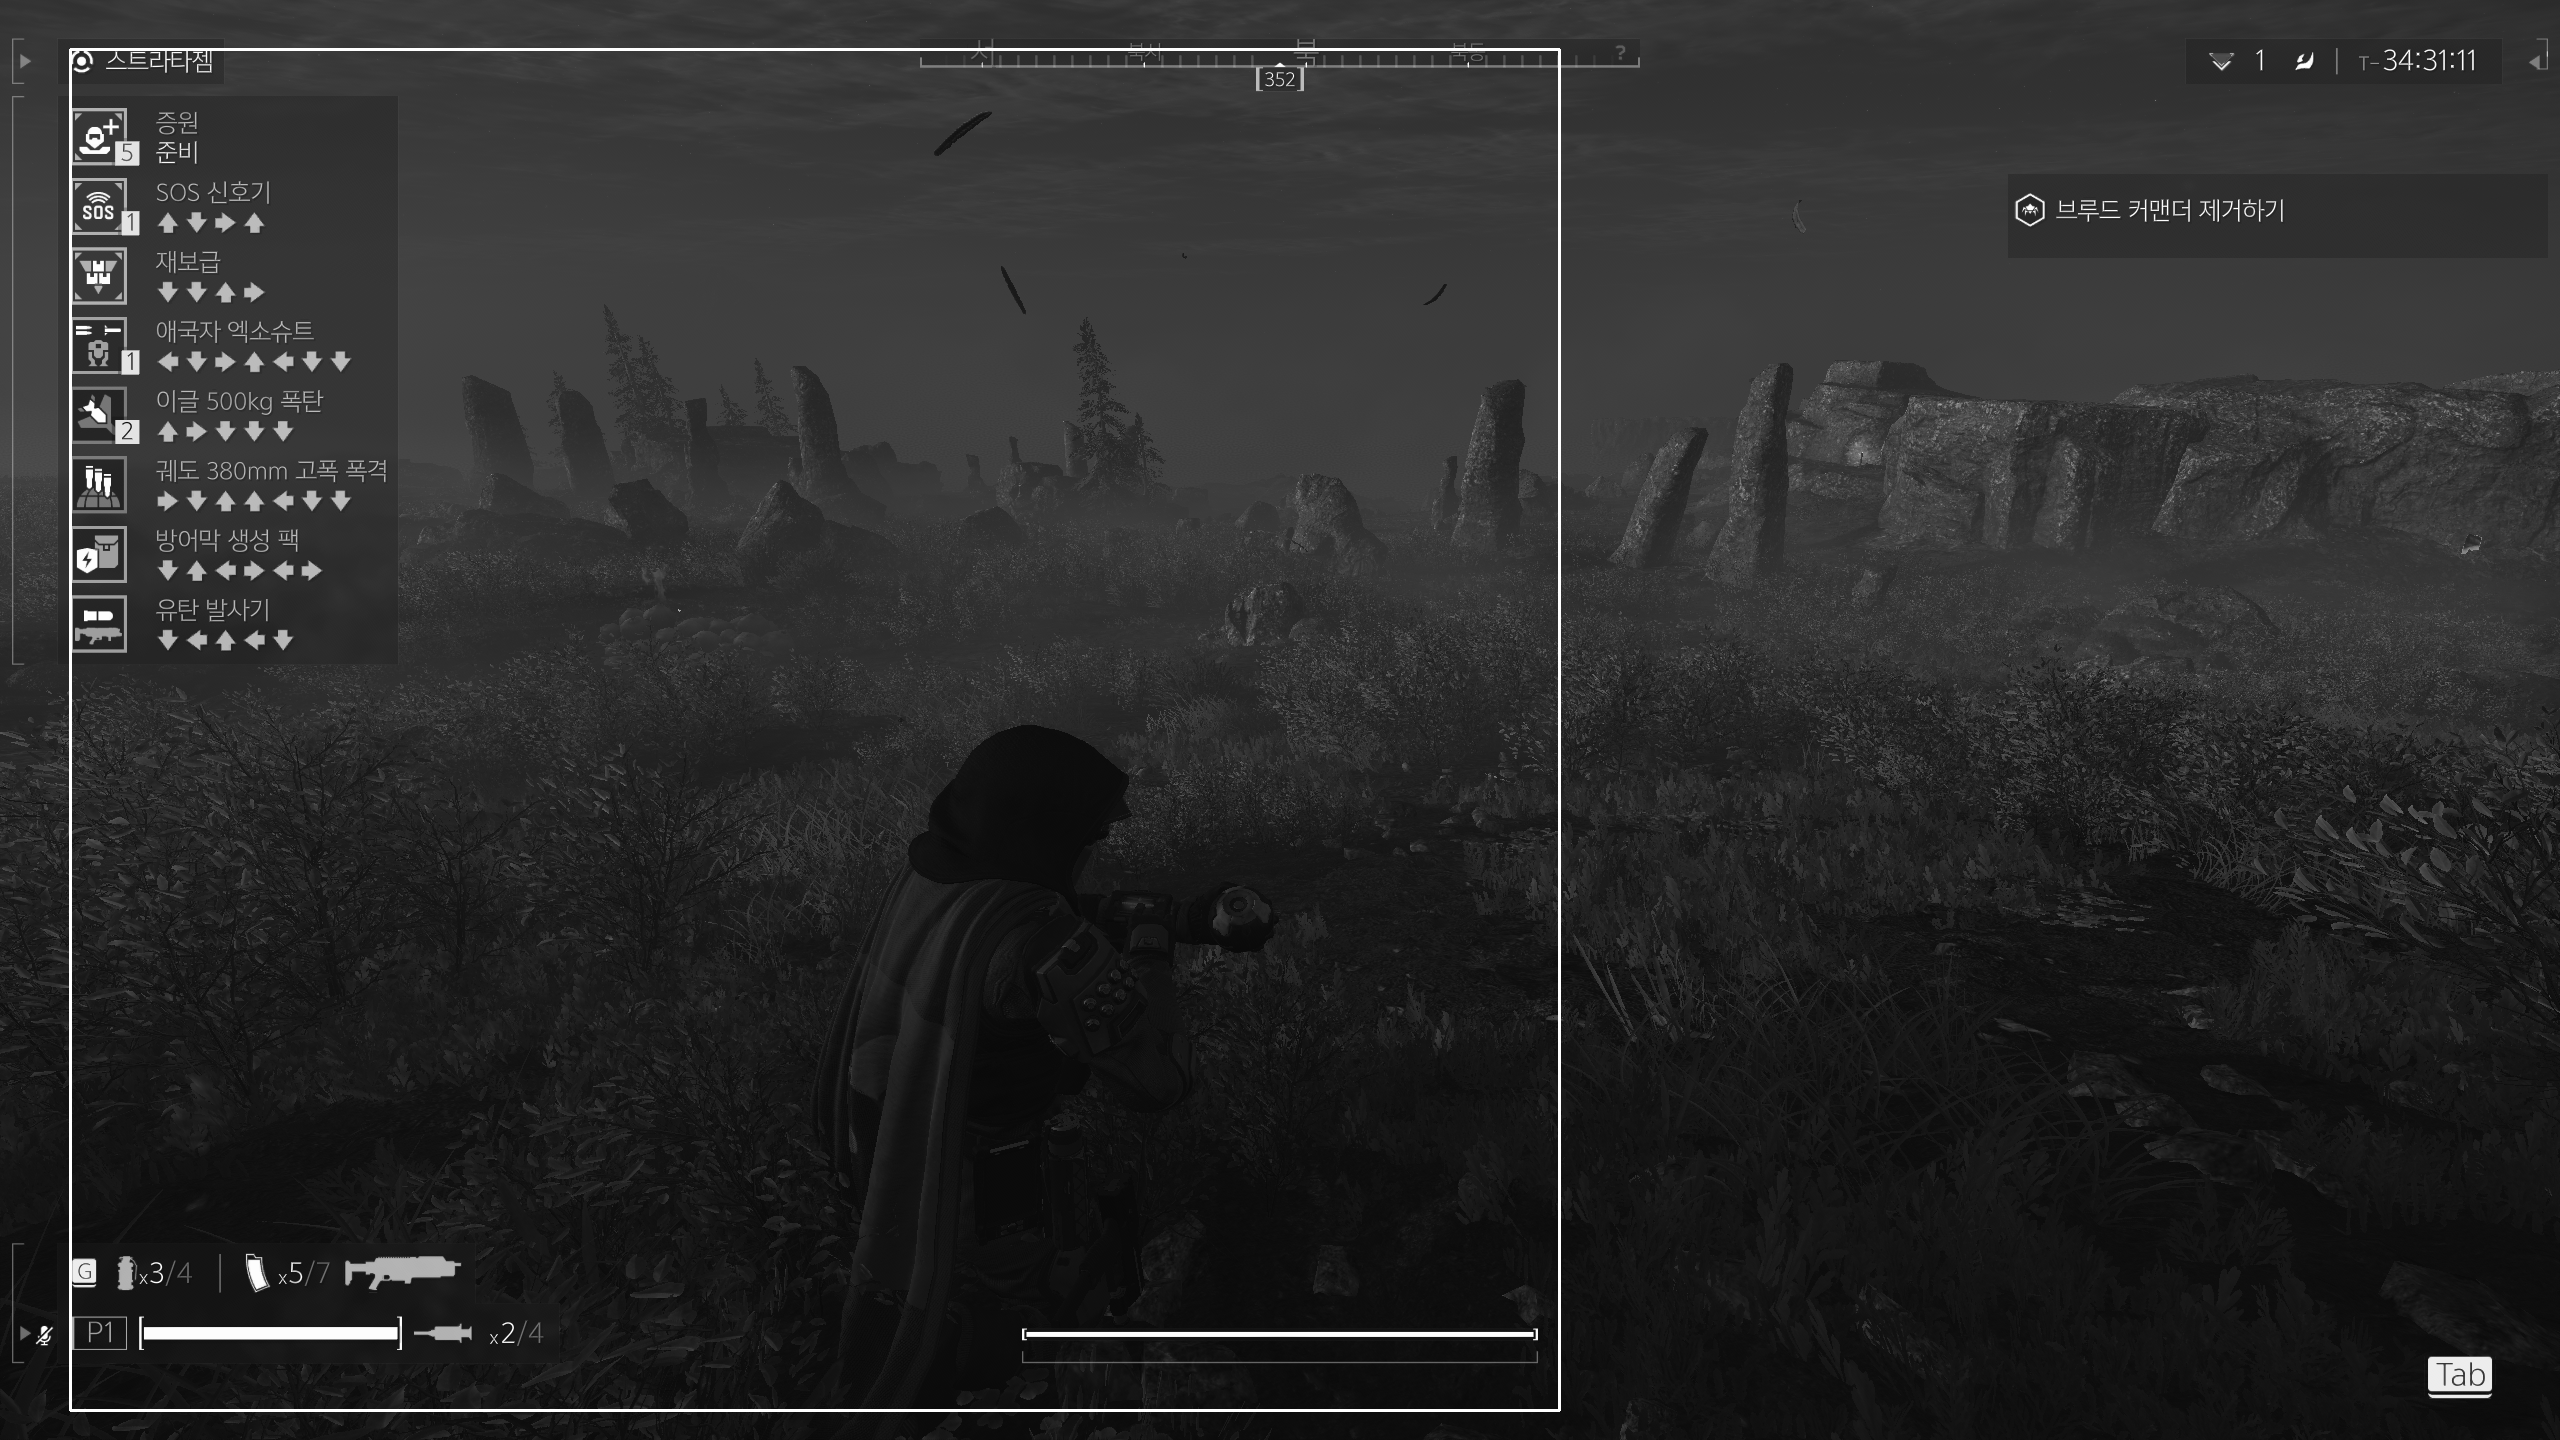
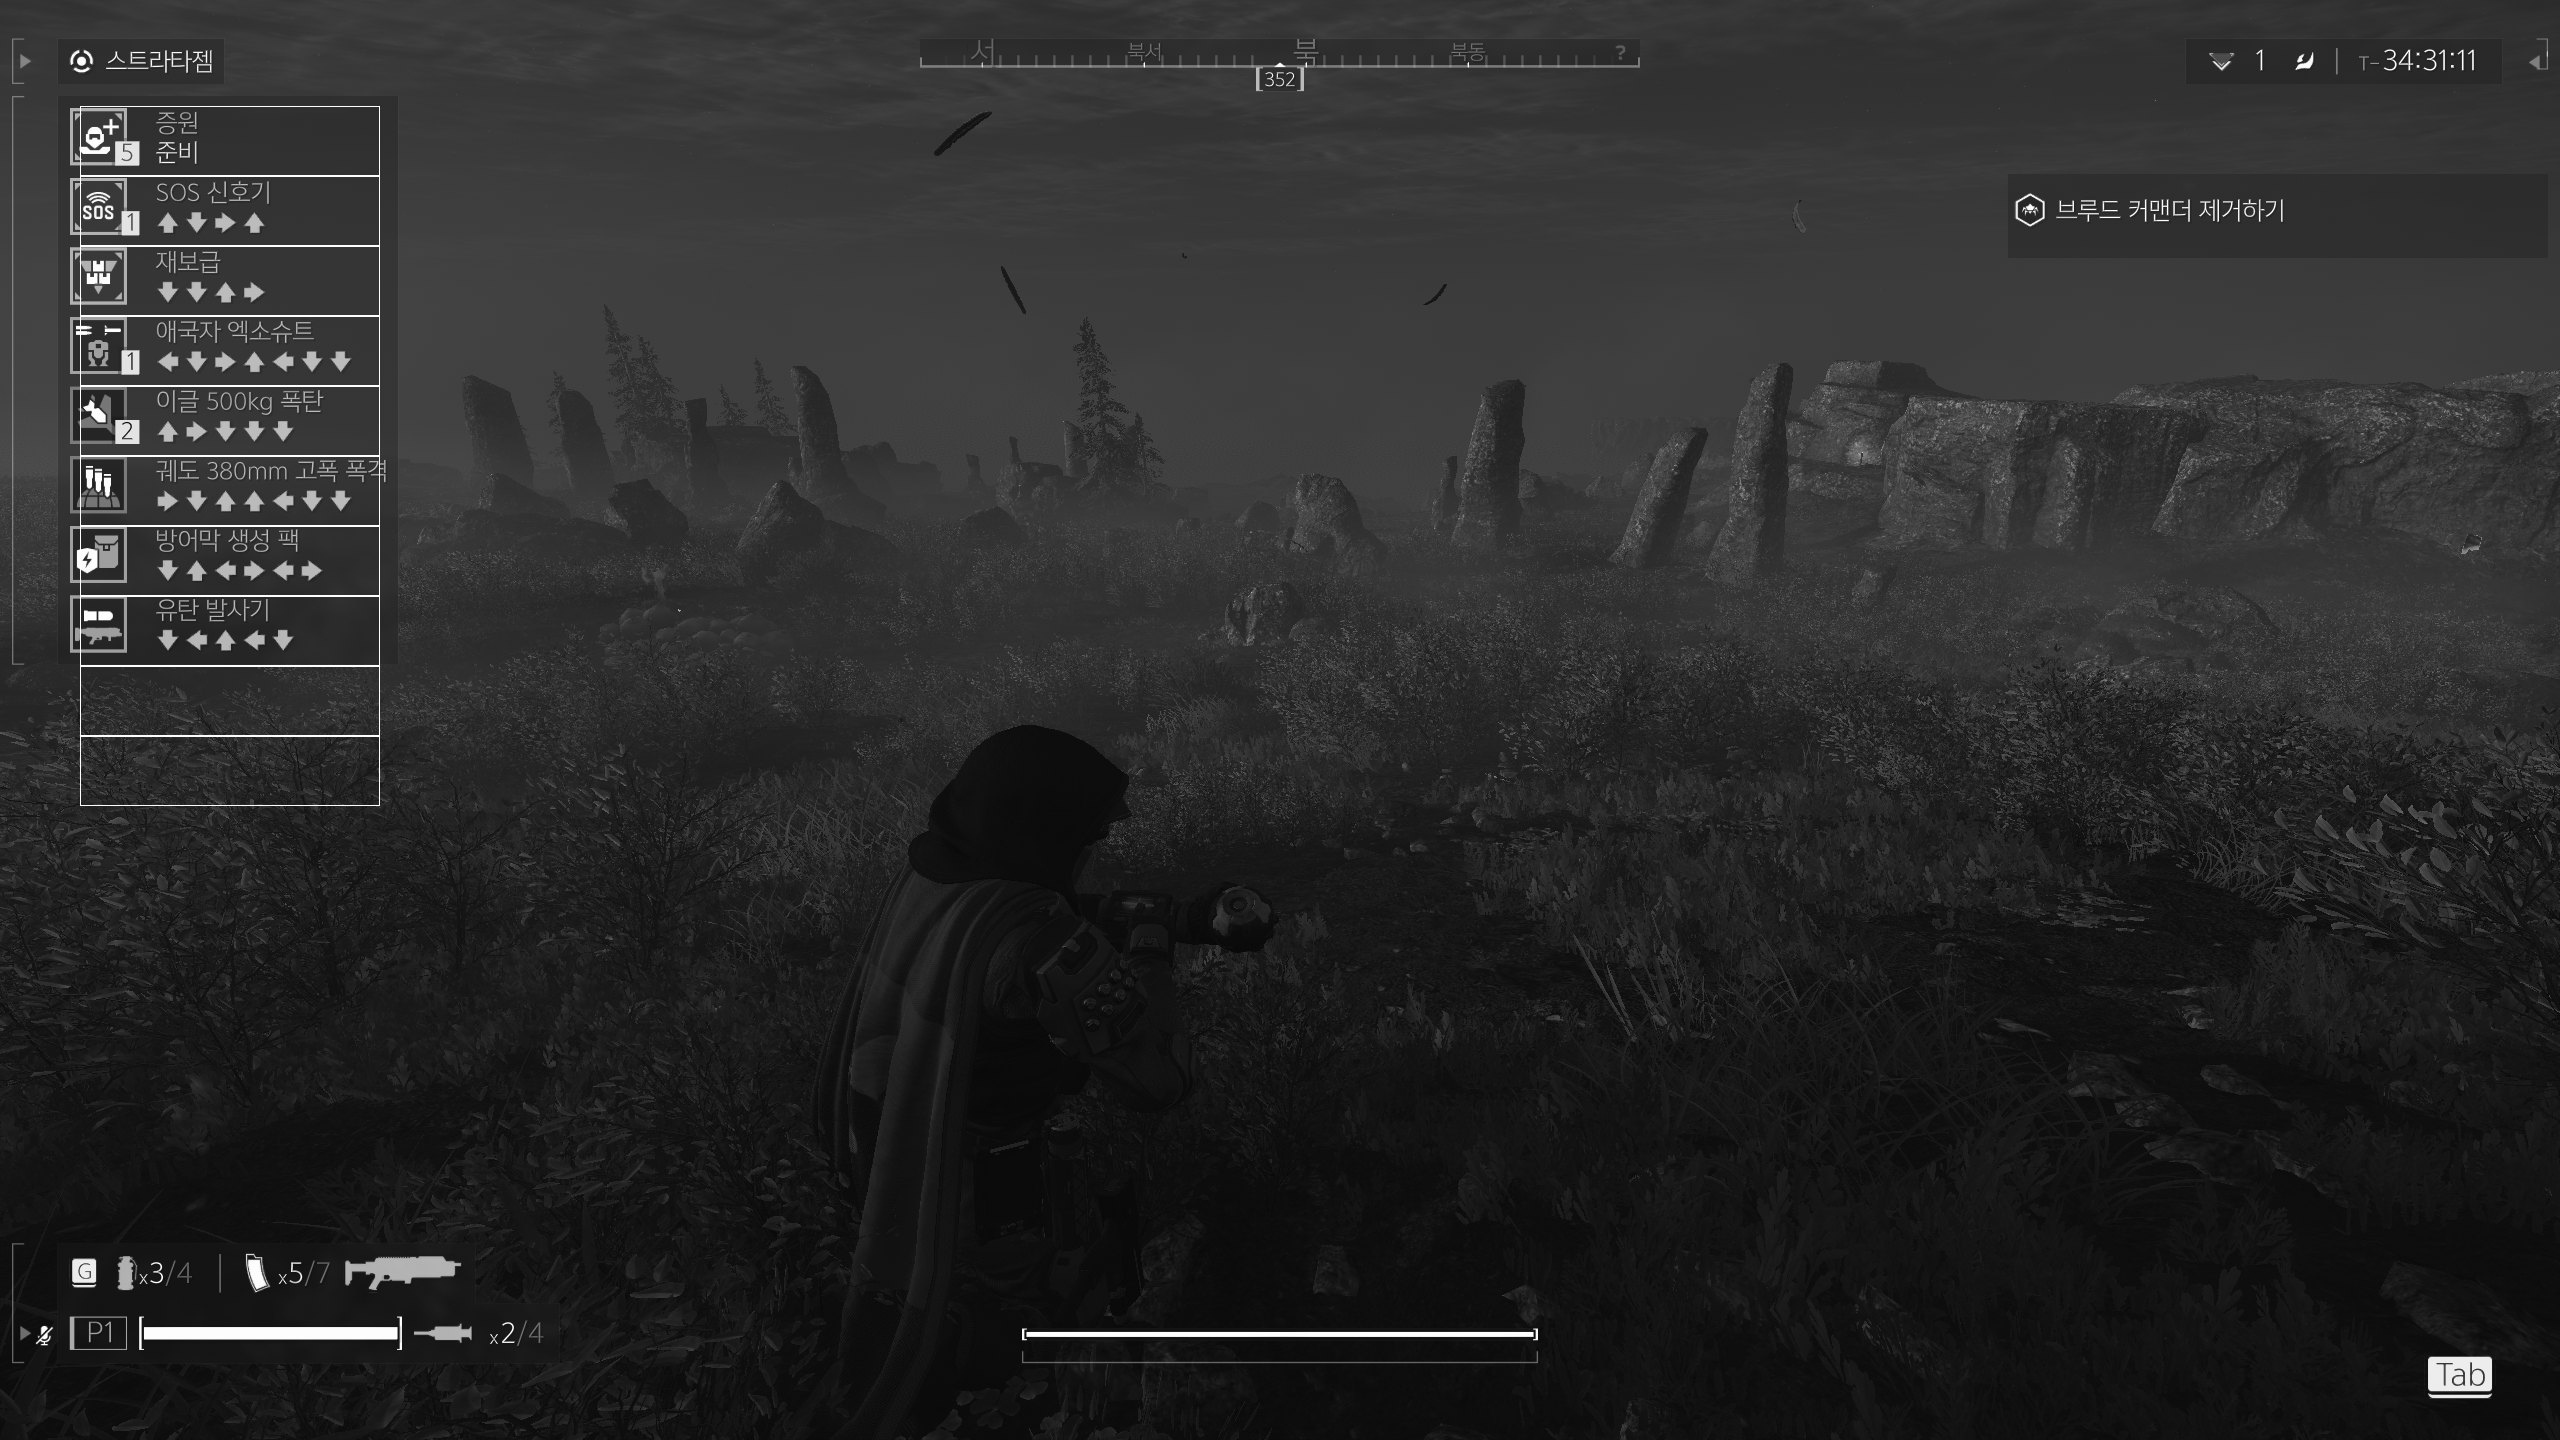
feat: add poc for template matcher sequencing

diff --git a/hd2m_cv/examples/template-matcher-sequencing.rs b/hd2m_cv/examples/template-matcher-sequencing.rs
@@ -3,6 +3,12 @@ use hd2m_cv::{Direction, TryFromCv, TryIntoCv};
 use image::{DynamicImage, GrayImage, RgbaImage};
 use opencv as cv;
 
+const MARGIN_Y_ANCHOR: i32 = 22 + 10;
+const ANCHOR_BOX: i32 = 25;
+
+const BOX_SIZE: i32 = 70;
+const COEFF: f32 = 0.0152777777777778;
+
 fn main() -> Result<()> {
     let start = std::time::Instant::now();
 
@@ -14,57 +20,42 @@ fn main() -> Result<()> {
     let anchor_mch = hd2m_cv::TemplateMatcher::new(&anchor_img.try_into_cv()?)?;
     let anchor_res = anchor_mch.match_template(&source.try_into_cv()?)?;
 
-    let mut min_val = 0.0f64;
-    let mut max_val = 0.0f64;
-    let mut min_loc = cv::core::Point::default();
-    let mut max_loc = cv::core::Point::default();
+    let pos = anchor_res.position()?;
 
-    cv::core::min_max_loc(
-        &anchor_res,
-        Some(&mut min_val),
-        Some(&mut max_val),
-        Some(&mut min_loc),
-        Some(&mut max_loc),
-        &cv::core::no_array(),
-    )?;
-
-    println!(
-        "vals: {:?} {:?} {:?} {:?}",
-        min_val, max_val, min_loc, max_loc
-    );
-
-    // let img_tmp = image::open("./examples/temp.png")?.to_rgba8();
-    // let matcher = hd2m_cv::TemplateMatcher::new(&img_tmp.try_into_cv()?)?;
-
-    // let mut min_val = 0.0f64;
-    // let mut max_val = 0.0f64;
-    // let mut min_loc = cv::core::Point::default();
-    // let mut max_loc = cv::core::Point::default();
-
-    // println!("Elapsed: {:?}", start.elapsed());
-    // cv::core::min_max_loc(
-    //     &res,
-    //     Some(&mut min_val),
-    //     Some(&mut max_val),
-    //     Some(&mut min_loc),
-    //     Some(&mut max_loc),
-    //     &cv::core::no_array(),
-    // )?;
-
-    // println!(
-    //     "vals: {:?} {:?} {:?} {:?}",
-    //     min_val, max_val, min_loc, max_loc
-    // );
+    // Reposition the anchor to the stratgem box
+    let pos = cv::core::Point::new(pos.x, pos.y + ANCHOR_BOX + MARGIN_Y_ANCHOR);
 
     let mut dst_img = dst_img.try_into_cv()?;
-    cv::imgproc::rectangle(
-        &mut dst_img,
-        cv::core::Rect::from_points(min_loc, max_loc),
-        cv::core::VecN([255., 255., 0., 0.]),
-        2,
-        cv::imgproc::LINE_8,
-        0,
-    )?;
+
+    println!("pos: {:?}", pos);
+
+    // cv::imgproc::rectangle(
+    //     &mut dst_img,
+    //     cv::core::Rect::from_points(pos, cv::core::Point::new(pos.x + 300, pos.y + 500)),
+    //     cv::core::VecN([255., 255., 0., 0.]),
+    //     2,
+    //     cv::imgproc::LINE_8,
+    //     0,
+    // )?;
+
+    let x = pos.x + 10;
+    for i in 0..10 {
+        let y = pos.y + i * BOX_SIZE;
+        println!("x: {}", x);
+        println!("y: {}", y);
+
+        cv::imgproc::rectangle(
+            &mut dst_img,
+            cv::core::Rect::from_points(
+                cv::core::Point::new(x, y),
+                cv::core::Point::new(x + 300, y + BOX_SIZE),
+            ),
+            cv::core::VecN([255., 255., 255., 0.]),
+            1,
+            cv::imgproc::LINE_8,
+            0,
+        )?;
+    }
 
     GrayImage::try_from_cv(&dst_img)?.save("./result.png")?;
 
